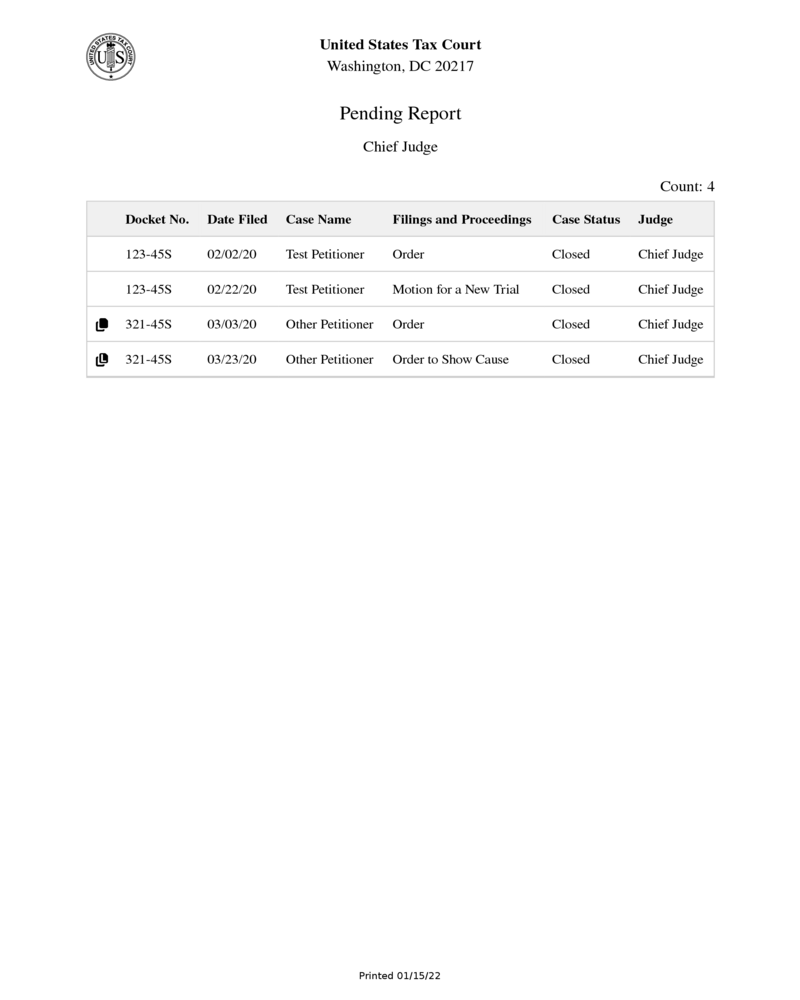
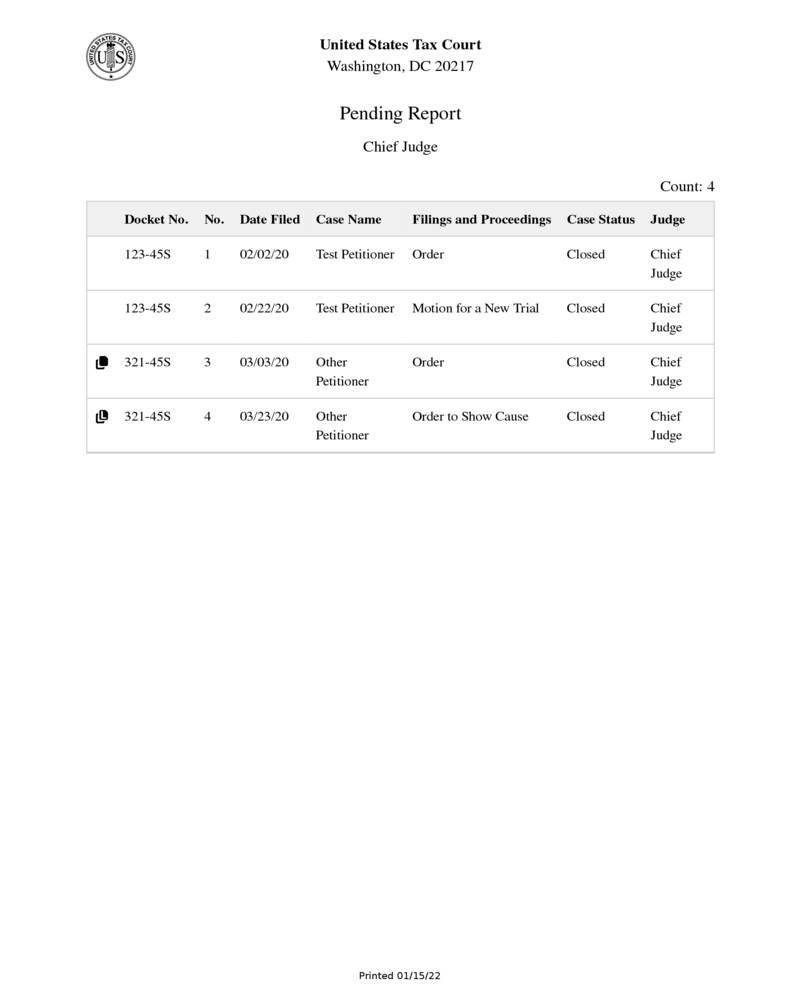
10212: Updated tests

diff --git a/web-api/src/business/useCases/pendingItems/exportPendingReportInteractor.test.ts b/web-api/src/business/useCases/pendingItems/exportPendingReportInteractor.test.ts
@@ -26,6 +26,7 @@ describe('exportPendingReportInteractor', () => {
       docketNumber: '456-68',
       docketNumberWithSuffix: '456-68',
       documentTitle: 'Test Document Best',
+      index: 1,
       receivedAt: '2022-02-04T12:00:00.000Z',
       status: CASE_STATUS_TYPES.new,
     },
@@ -35,6 +36,7 @@ describe('exportPendingReportInteractor', () => {
       docketNumber: '456-69',
       docketNumberWithSuffix: '456-69',
       documentTitle: 'Test Document Best',
+      index: 2,
       receivedAt: '2021-03-04T12:00:00.000Z',
       status: CASE_STATUS_TYPES.new,
     },
@@ -44,6 +46,7 @@ describe('exportPendingReportInteractor', () => {
       docketNumber: '456-67',
       docketNumberWithSuffix: '456-67',
       documentTitle: 'Test Document Best',
+      index: 3,
       receivedAt: '2020-03-04T12:00:00.000Z',
       status: CASE_STATUS_TYPES.generalDocket,
     },
@@ -53,6 +56,7 @@ describe('exportPendingReportInteractor', () => {
       docketNumber: '123-45',
       docketNumberWithSuffix: '123-45',
       documentTitle: 'Test Document Title',
+      index: 4,
       receivedAt: '1990-01-01T12:00:00.000Z',
       status: CASE_STATUS_TYPES.generalDocket,
     },
@@ -62,6 +66,7 @@ describe('exportPendingReportInteractor', () => {
       docketNumber: '123-49',
       docketNumberWithSuffix: '123-49',
       documentTitle: 'Test Document Title',
+      index: 5,
       receivedAt: '1999-01-01T12:00:00.000Z',
       status: CASE_STATUS_TYPES.generalDocket,
     },
@@ -72,6 +77,7 @@ describe('exportPendingReportInteractor', () => {
       docketNumberSuffix: DOCKET_NUMBER_SUFFIXES.SMALL,
       docketNumberWithSuffix: '234-56S',
       documentType: 'Test Document Type',
+      index: 6,
       receivedAt: '2020-02-02T12:00:00.000Z',
       status: CASE_STATUS_TYPES.onAppeal,
     },
@@ -82,6 +88,7 @@ describe('exportPendingReportInteractor', () => {
       docketNumberWithSuffix: '345-67',
       documentTitle: 'Test Document Title',
       leadDocketNumber: '456-78',
+      index: 7,
       receivedAt: '2020-03-03T12:00:00.000Z',
       status: CASE_STATUS_TYPES.onAppeal,
     },
@@ -91,6 +98,7 @@ describe('exportPendingReportInteractor', () => {
       docketNumber: '456-78',
       docketNumberWithSuffix: '456-78',
       documentTitle: 'Fear and Trembling',
+      index: 8,
       leadDocketNumber: '456-78',
       receivedAt: '2020-03-03T12:00:00.000Z',
       status: CASE_STATUS_TYPES.onAppeal,
@@ -150,6 +158,7 @@ describe('exportPendingReportInteractor', () => {
         formattedName: 'Test Document Title',
         formattedStatus: 'General Docket - Not at Issue',
         inConsolidatedGroup: false,
+        index: 4,
         isLeadCase: false,
         receivedAt: '1990-01-01T12:00:00.000Z',
         shouldIndent: false,
@@ -167,6 +176,7 @@ describe('exportPendingReportInteractor', () => {
         formattedName: 'Test Document Title',
         formattedStatus: 'General Docket - Not at Issue',
         inConsolidatedGroup: false,
+        index: 5,
         isLeadCase: false,
         receivedAt: '1999-01-01T12:00:00.000Z',
         shouldIndent: false,
@@ -184,6 +194,7 @@ describe('exportPendingReportInteractor', () => {
         formattedName: 'Test Document Type',
         formattedStatus: 'On Appeal',
         inConsolidatedGroup: false,
+        index: 6,
         isLeadCase: false,
         receivedAt: '2020-02-02T12:00:00.000Z',
         shouldIndent: false,
@@ -201,6 +212,7 @@ describe('exportPendingReportInteractor', () => {
         formattedName: 'Test Document Title',
         formattedStatus: 'On Appeal',
         inConsolidatedGroup: true,
+        index: 7,
         isLeadCase: false,
         receivedAt: '2020-03-03T12:00:00.000Z',
         shouldIndent: false,
@@ -218,6 +230,7 @@ describe('exportPendingReportInteractor', () => {
         formattedName: 'Fear and Trembling',
         formattedStatus: 'On Appeal',
         inConsolidatedGroup: true,
+        index: 8,
         isLeadCase: true,
         receivedAt: '2020-03-03T12:00:00.000Z',
         shouldIndent: false,
@@ -235,6 +248,7 @@ describe('exportPendingReportInteractor', () => {
         formattedName: 'Test Document Best',
         formattedStatus: 'General Docket - Not at Issue',
         inConsolidatedGroup: false,
+        index: 3,
         isLeadCase: false,
         receivedAt: '2020-03-04T12:00:00.000Z',
         shouldIndent: false,
@@ -252,6 +266,7 @@ describe('exportPendingReportInteractor', () => {
         formattedName: 'Test Document Best',
         formattedStatus: 'New',
         inConsolidatedGroup: false,
+        index: 2,
         isLeadCase: false,
         receivedAt: '2021-03-04T12:00:00.000Z',
         shouldIndent: false,
@@ -269,6 +284,7 @@ describe('exportPendingReportInteractor', () => {
         formattedName: 'Test Document Best',
         formattedStatus: 'New',
         inConsolidatedGroup: false,
+        index: 1,
         isLeadCase: false,
         receivedAt: '2022-02-04T12:00:00.000Z',
         shouldIndent: false,

diff --git a/shared/src/business/utilities/formatPendingItem.test.ts b/shared/src/business/utilities/formatPendingItem.test.ts
@@ -20,6 +20,7 @@ describe('formatPendingItem', () => {
       docketNumberWithSuffix: '103-19L',
       documentTitle: 'Affidavit of Bob in Support of Petition',
       documentType: 'Affidavit in Support',
+      index: 1,
       leadDocketNumber: undefined,
       receivedAt: '2018-01-20',
       status: CASE_STATUS_TYPES.calendared,
@@ -37,6 +38,7 @@ describe('formatPendingItem', () => {
         docketNumberSuffix: DOCKET_NUMBER_SUFFIXES.WHISTLEBLOWER,
         documentTitle: 'Bop dop baboo',
         documentType: 'Administrative Record',
+        index: 1,
         receivedAt: '2019-01-10',
         status: CASE_STATUS_TYPES.new,
       },
@@ -49,6 +51,7 @@ describe('formatPendingItem', () => {
         docketNumberSuffix: DOCKET_NUMBER_SUFFIXES.WHISTLEBLOWER,
         documentTitle: 'Affidavit of Sally in Support of Petition',
         documentType: 'Affidavit in Support',
+        index: 1,
         receivedAt: '2018-01-20',
         status: CASE_STATUS_TYPES.new,
       },
@@ -61,6 +64,7 @@ describe('formatPendingItem', () => {
         docketNumberSuffix: DOCKET_NUMBER_SUFFIXES.WHISTLEBLOWER,
         documentTitle: 'Affidavit of Bob in Support of Petition',
         documentType: 'Affidavit in Support',
+        index: 1,
         receivedAt: '2018-01-20',
         status: CASE_STATUS_TYPES.new,
       },
@@ -77,6 +81,7 @@ describe('formatPendingItem', () => {
           '/case-detail/101-19/document-view?docketEntryId=33ddbf4f-90f8-417c-8967-57851b0b9069',
         formattedFiledDate: '01/10/19',
         formattedName: 'Bop dop baboo',
+        index: 1,
       },
       {
         associatedJudgeFormatted: CHIEF_JUDGE,
@@ -84,6 +89,7 @@ describe('formatPendingItem', () => {
           '/case-detail/101-19/document-view?docketEntryId=dd956ab1-5cde-4e78-bae0-fff4aee40426',
         formattedFiledDate: '01/20/18',
         formattedName: 'Affidavit of Sally in Support of Petition',
+        index: 1,
       },
       {
         associatedJudgeFormatted: 'A',
@@ -91,6 +97,7 @@ describe('formatPendingItem', () => {
           '/case-detail/103-19/document-view?docketEntryId=dd956ab1-5cde-4e78-bae0-ac7faee40426',
         formattedFiledDate: '01/20/18',
         formattedName: 'Affidavit of Bob in Support of Petition',
+        index: 1,
       },
     ]);
   });

diff --git a/web-client/src/presenter/computeds/formattedDocketEntries.test.ts b/web-client/src/presenter/computeds/formattedDocketEntries.test.ts
@@ -966,6 +966,46 @@ describe('formattedDocketEntries', () => {
 
       expect(result.formattedDocketEntriesOnDocketRecord.length).toBe(2);
     });
+
+    it('should sort pending docket entries by receivedAt', () => {
+      const pendingMotion = {
+        ...mockDocketEntry,
+        docketEntryId: 'b8dd9fa0-46bd-4a2a-a1d1-7bcbc2c78d0d',
+        documentTitle: 'Motion to Dismiss',
+        documentType: 'Motion to Dismiss',
+        eventCode: 'M070',
+        isFileAttached: true,
+        pending: true,
+        servedAt: '2026-11-01T00:00:00.000Z',
+        servedParties: [
+          { email: petitionerUser.email, name: petitionerUser.name },
+        ],
+      };
+
+      const pendingDocketEntries = [
+        { ...pendingMotion, index: 3, receivedAt: '2026-11-03T00:00:00.000Z' },
+        { ...pendingMotion, index: 2, receivedAt: '2026-11-02T00:00:00.000Z' },
+        { ...pendingMotion, index: 1, receivedAt: '2026-11-01T00:00:00.000Z' },
+      ];
+
+      const caseDetail = {
+        ...MOCK_CASE,
+        docketEntries: pendingDocketEntries,
+      };
+
+      const result = runCompute(formattedDocketEntries, {
+        state: {
+          ...getBaseState(petitionsClerkUser),
+          caseDetail,
+        },
+      });
+
+      expect(
+        result.formattedPendingDocketEntriesOnDocketRecord.map(d => {
+          return d.index;
+        }),
+      ).toEqual([1, 2, 3]);
+    });
   });
 
   describe('qcNeeded', () => {

diff --git a/shared/src/business/utilities/getFormattedCaseDetail.formatDocketEntry.test.ts b/shared/src/business/utilities/getFormattedCaseDetail.formatDocketEntry.test.ts
@@ -5,6 +5,7 @@ import {
 } from '../entities/EntityConstants';
 import { applicationContext } from '../../business/test/createTestApplicationContext';
 import { formatDocketEntry } from './getFormattedCaseDetail';
+import { MOCK_ANSWER } from '@shared/test/mockDocketEntry';
 
 describe('formatDocketEntry', () => {
   it('should format the servedAt date', () => {
@@ -329,6 +330,26 @@ describe('formatDocketEntry', () => {
         isOnDocketRecord: false,
       } as RawDocketEntry);
       expect(result.sortingFilingDate).toEqual('20200301');
+    });
+  });
+
+  describe('receivedAtFormatted', () => {
+    it('should format receivedAt', () => {
+      const result = formatDocketEntry(applicationContext, {
+        ...MOCK_ANSWER,
+        receivedAt: '2026-11-01T04:00:00.000Z',
+      });
+
+      expect(result.receivedAtFormatted).toEqual('11/01/26');
+    });
+
+    it('should handle undefined receivedAt', () => {
+      const result = formatDocketEntry(applicationContext, {
+        ...MOCK_ANSWER,
+        receivedAt: undefined as any,
+      });
+
+      expect(result.receivedAtFormatted).toEqual('');
     });
   });
 });

diff --git a/shared/src/business/utilities/documentGenerators/pendingReport.test.ts b/shared/src/business/utilities/documentGenerators/pendingReport.test.ts
@@ -27,6 +27,7 @@ describe('pendingReport', () => {
               consolidatedIconTooltipText: '',
               shouldIndent: false,
               receivedAt: '',
+              index: 1,
             },
             {
               associatedJudgeFormatted: CHIEF_JUDGE,
@@ -43,6 +44,7 @@ describe('pendingReport', () => {
               consolidatedIconTooltipText: '',
               shouldIndent: false,
               receivedAt: '',
+              index: 2,
             },
             {
               associatedJudgeFormatted: CHIEF_JUDGE,
@@ -59,6 +61,7 @@ describe('pendingReport', () => {
               consolidatedIconTooltipText: '',
               shouldIndent: false,
               receivedAt: '',
+              index: 3,
             },
             {
               associatedJudgeFormatted: CHIEF_JUDGE,
@@ -75,6 +78,7 @@ describe('pendingReport', () => {
               consolidatedIconTooltipText: '',
               shouldIndent: false,
               receivedAt: '',
+              index: 4,
             },
           ],
           subtitle: 'Chief Judge',
